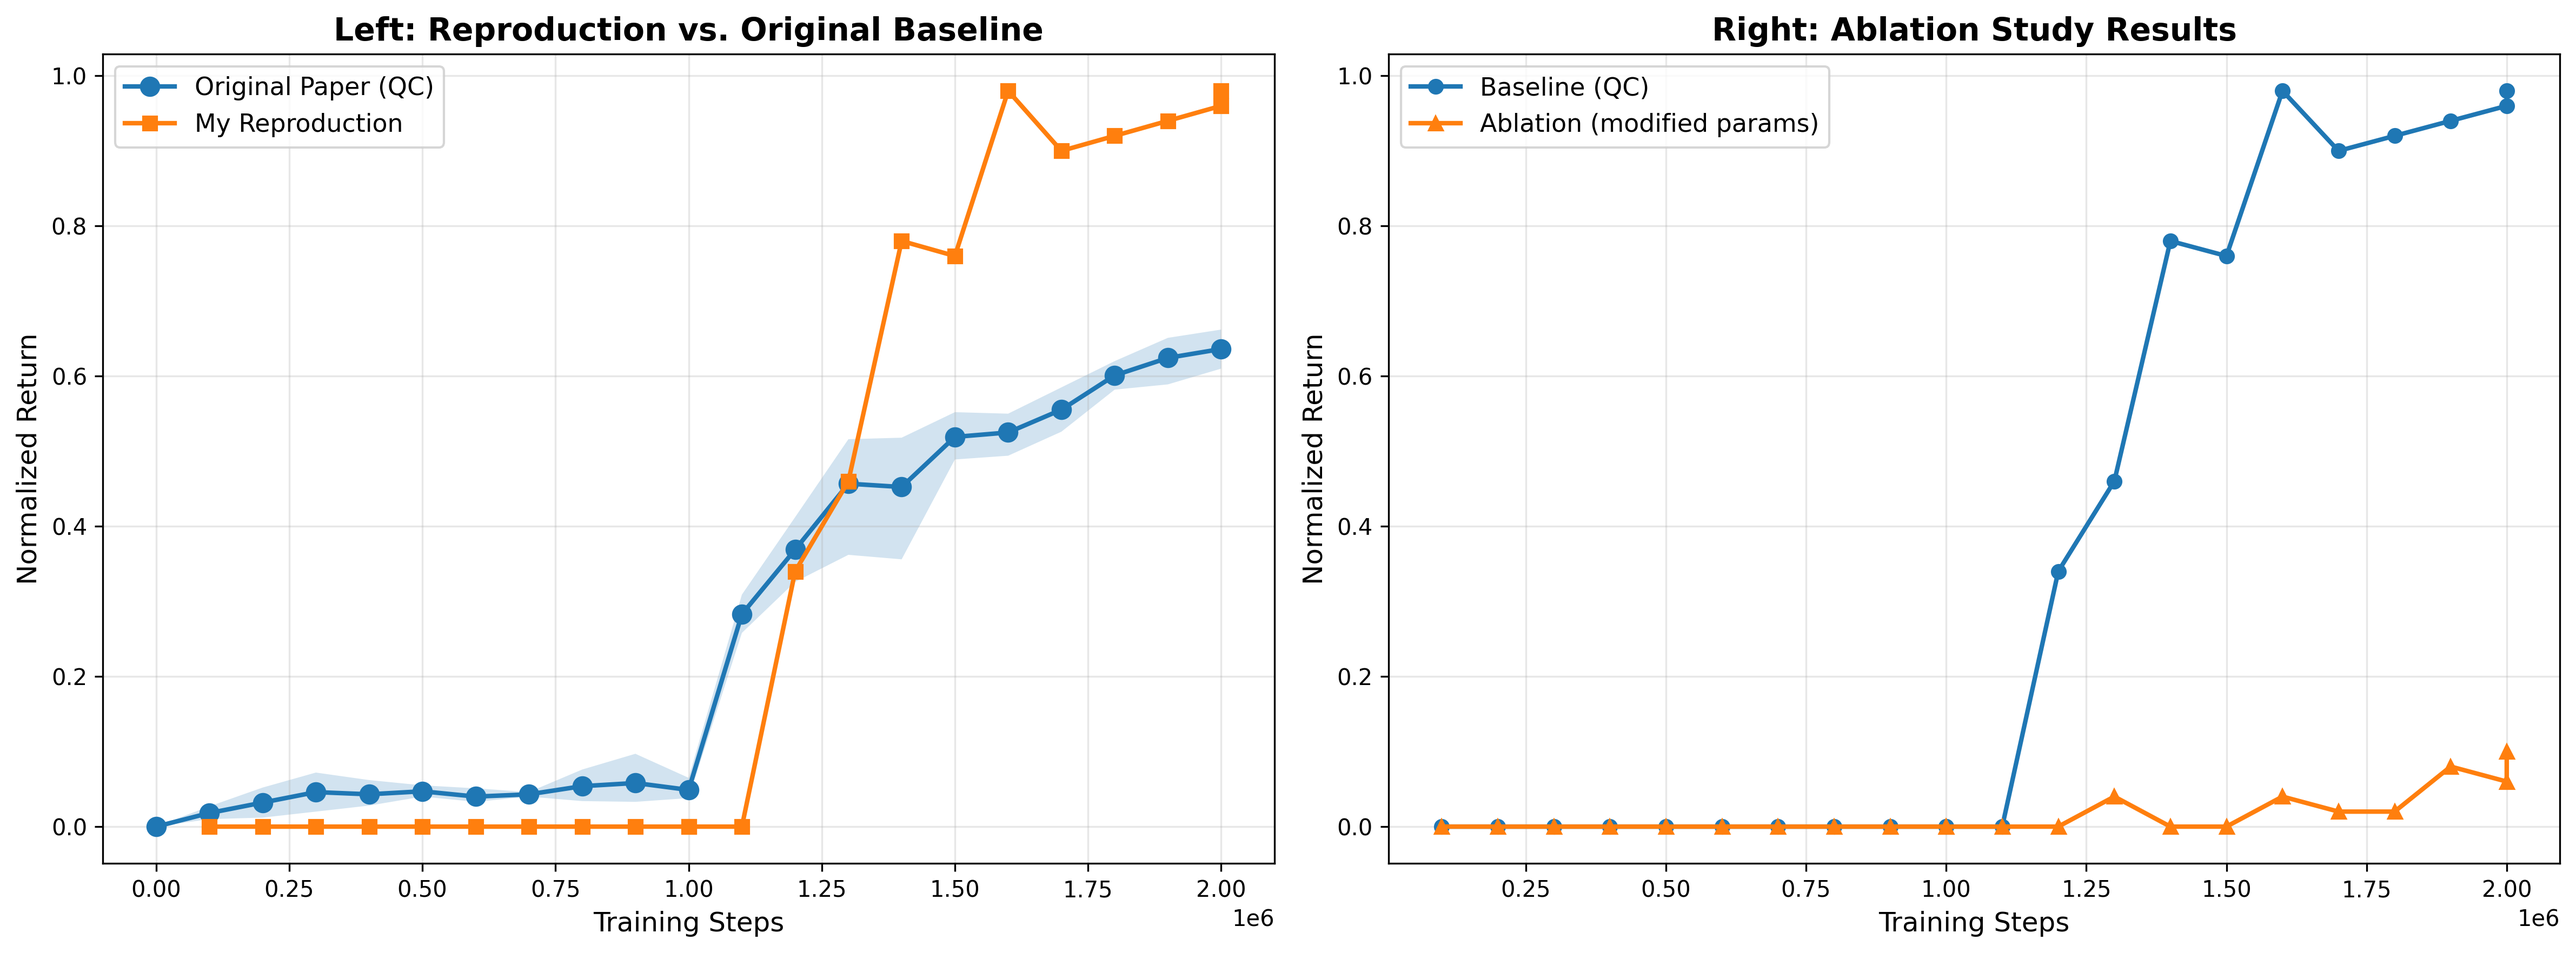
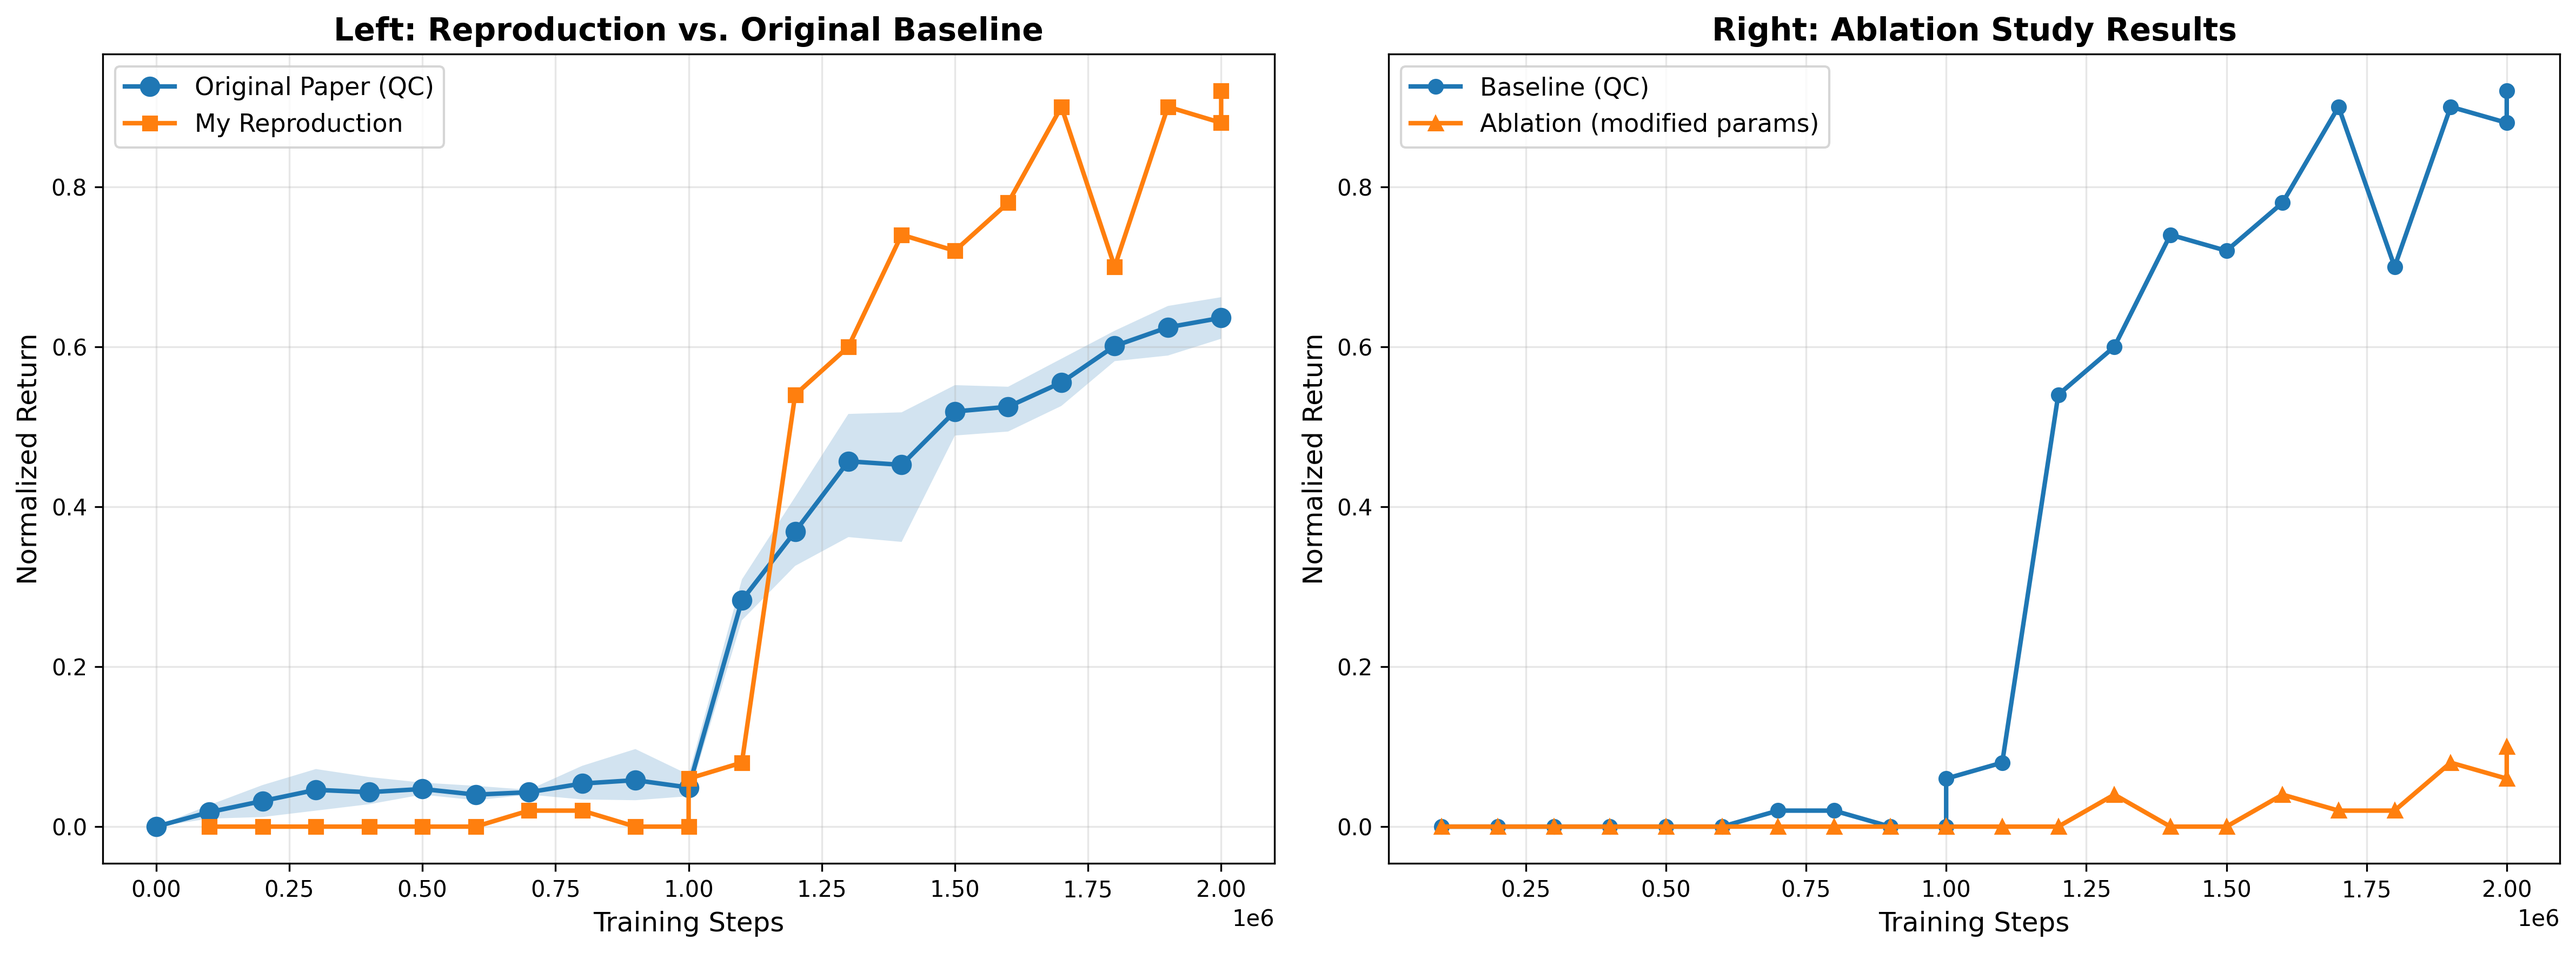
updated readme

diff --git a/create_comparison_plots.py b/create_comparison_plots.py
@@ -31,7 +31,7 @@ for f in csv_files:
     print(f"  {f}")
 
 # Load the most recent (or you can specify which one)
-reproduction_csv = '/home/ubuntu/qc/exp/dummy/reproduce/cube-triple-play-singletask-task2-v0/sd00020260214_150658/eval.csv'
+reproduction_csv = '/home/ubuntu/qc/exp/dummy/reproduce/cube-triple-play-singletask-task2-v0/sd00320260214_221124/eval.csv'
 ablation_csv = '/home/ubuntu/qc/exp/dummy/reproduce/cube-triple-play-singletask-task2-v0/sd00020260214_183451/eval.csv'
 
 print(f"\nUsing for reproduction: {reproduction_csv}")

diff --git a/README.md b/README.md
@@ -2,20 +2,6 @@
 
 # [Reinforcement Learning with Action Chunking](https://arxiv.org/abs/2507.07969)
 
-## [[website](https://colinqiyangli.github.io/qc/)]      [[pdf](https://arxiv.org/pdf/2507.07969)]
-
-</div>
-
-<p align="center">
-  <a href="https://colinqiyangli.github.io/qc/">
-    <img alt="teaser figure" src="./assets/teaser.png" width="48%">
-  </a>
-  <a href="https://colinqiyangli.github.io/qc/">
-    <img alt="aggregated results" src="./assets/agg.png" width="48%">
-  </a>
-</p>
-
-
 ## Overview
 Q-chunking runs RL on a *temporally extended action (action chunking) space* with an expressive behavior constraint to leverage prior data for improved exploration and online sample efficiency.
 
@@ -42,30 +28,21 @@ We include the example command for all the methods we evaluate in our paper belo
 # QC
 MUJOCO_GL=egl python main.py --run_group=reproduce --agent.actor_type=best-of-n --agent.actor_num_samples=32 --env_name=cube-triple-play-singletask-task2-v0 --sparse=False --horizon_length=5
 
-# BFN-n
-MUJOCO_GL=egl python main.py --run_group=reproduce --agent.actor_type=best-of-n --agent.actor_num_samples=4 --env_name=cube-triple-play-singletask-task2-v0 --sparse=False --horizon_length=5 --agent.action_chunking=False
-
-# BFN
-MUJOCO_GL=egl python main.py --run_group=reproduce --agent.actor_type=best-of-n --agent.actor_num_samples=4 --env_name=cube-triple-play-singletask-task2-v0 --sparse=False --horizon_length=1
-
-# QC-FQL
-MUJOCO_GL=egl python main.py --run_group=reproduce --agent.alpha=100 --env_name=cube-triple-play-singletask-task2-v0 --sparse=False --horizon_length=5
-
-# FQL-n
-MUJOCO_GL=egl python main.py --run_group=reproduce --agent.alpha=100 --env_name=cube-triple-play-singletask-task2-v0 --sparse=False --horizon_length=5 --agent.action_chunking=False
-
-# FQL
-MUJOCO_GL=egl python main.py --run_group=reproduce --agent.alpha=100 --env_name=cube-triple-play-singletask-task2-v0 --sparse=False --horizon_length=1
-
-# RLPD
-MUJOCO_GL=egl python main_online.py --env_name=cube-triple-play-singletask-task2-v0 --sparse=False --horizon_length=1 
-
-# RLPD-AC
-MUJOCO_GL=egl python main_online.py --env_name=cube-triple-play-singletask-task2-v0 --sparse=False --horizon_length=5
-
-# QC-RLPD
-MUJOCO_GL=egl python main_online.py --env_name=cube-triple-play-singletask-task2-v0 --sparse=False --horizon_length=5 --agent.bc_alpha=0.01
 ```
+The following are the figures included in assignment
+/qc/create_comparison_plots.py
+/qc/figure1_comparison.png
+/qc/reproduction_vs_original.png
+
+**Run the following to create the figures**
+Make sure to update the path for the ablation and reproduction eval.csv
+
+/qc/create_comparison_plots.py 
+
+**Results**
+The results from the reproduction and ablation are under /qc/exp/dummy/reproduce/cube-triple-play-singletask-task2-v0. It includes the main results (eval.csv) as well as the results for the offline agent and the online agent. 
+
+It will take approximately 5 hrs to for each run.
 
 ```
 @inproceedings{
